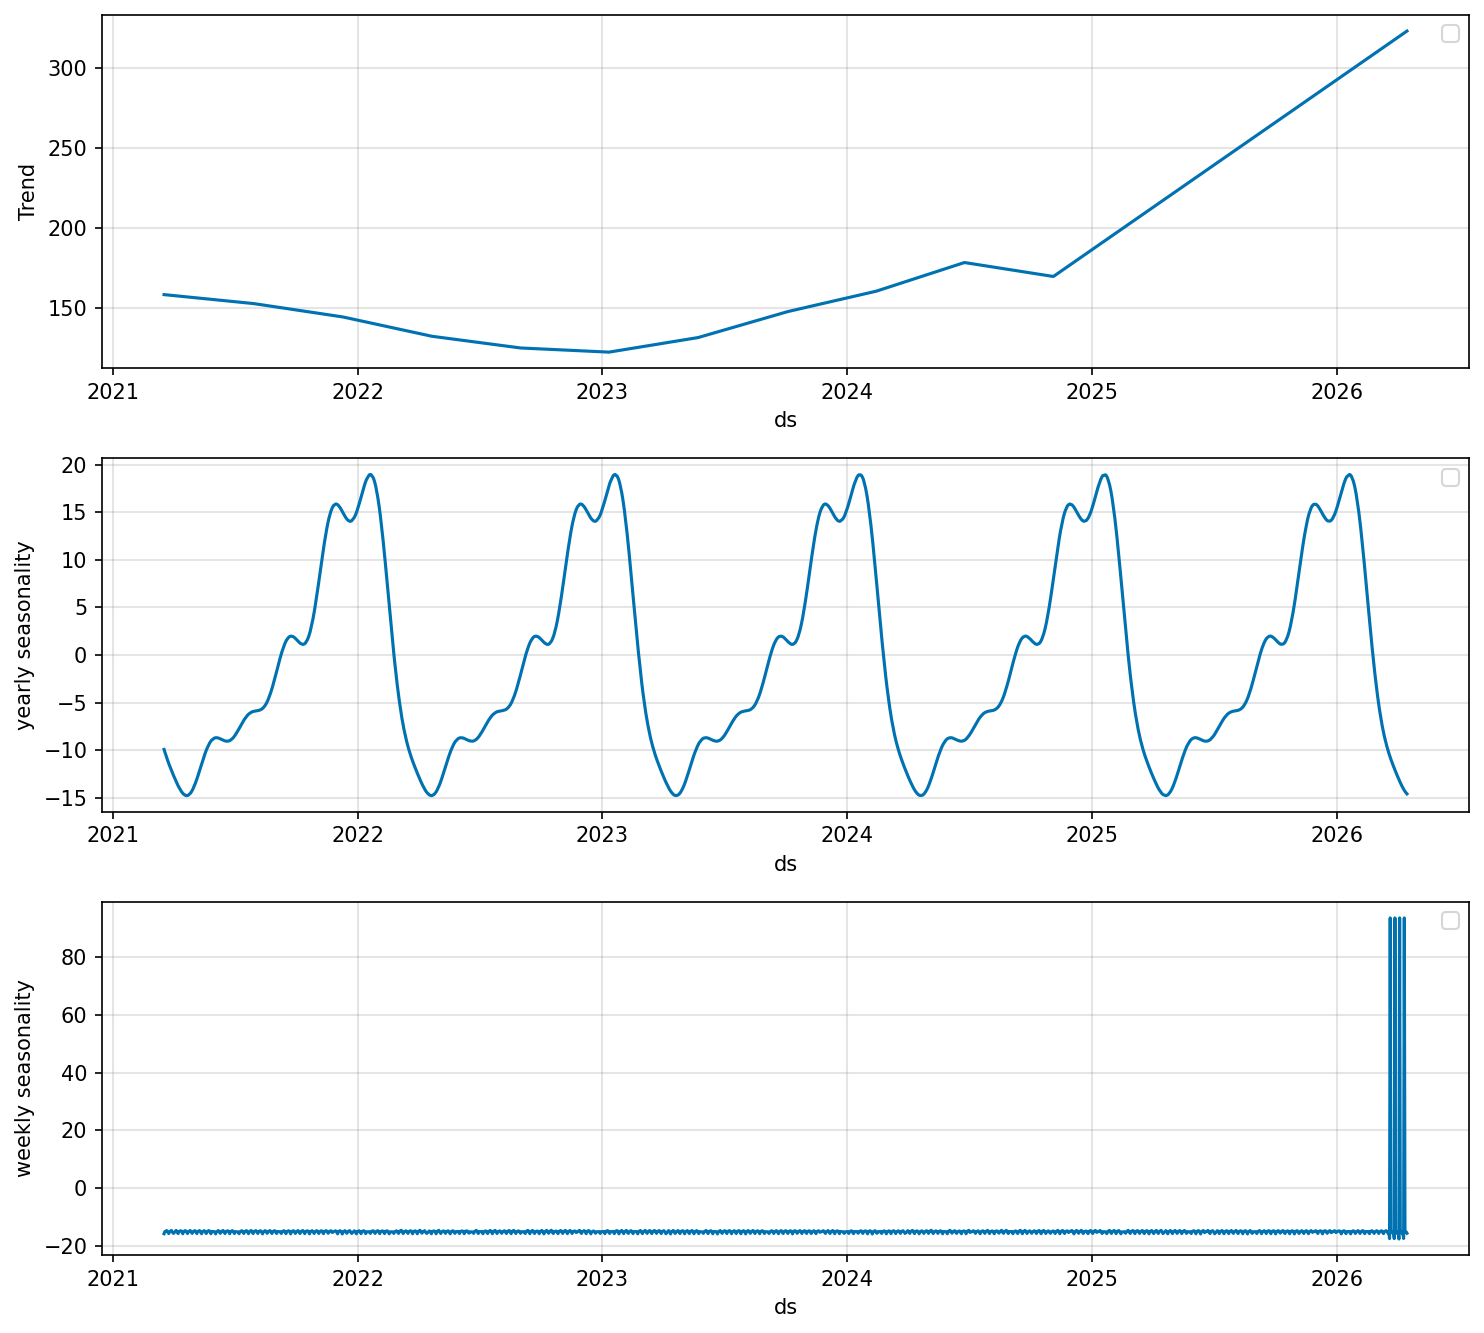
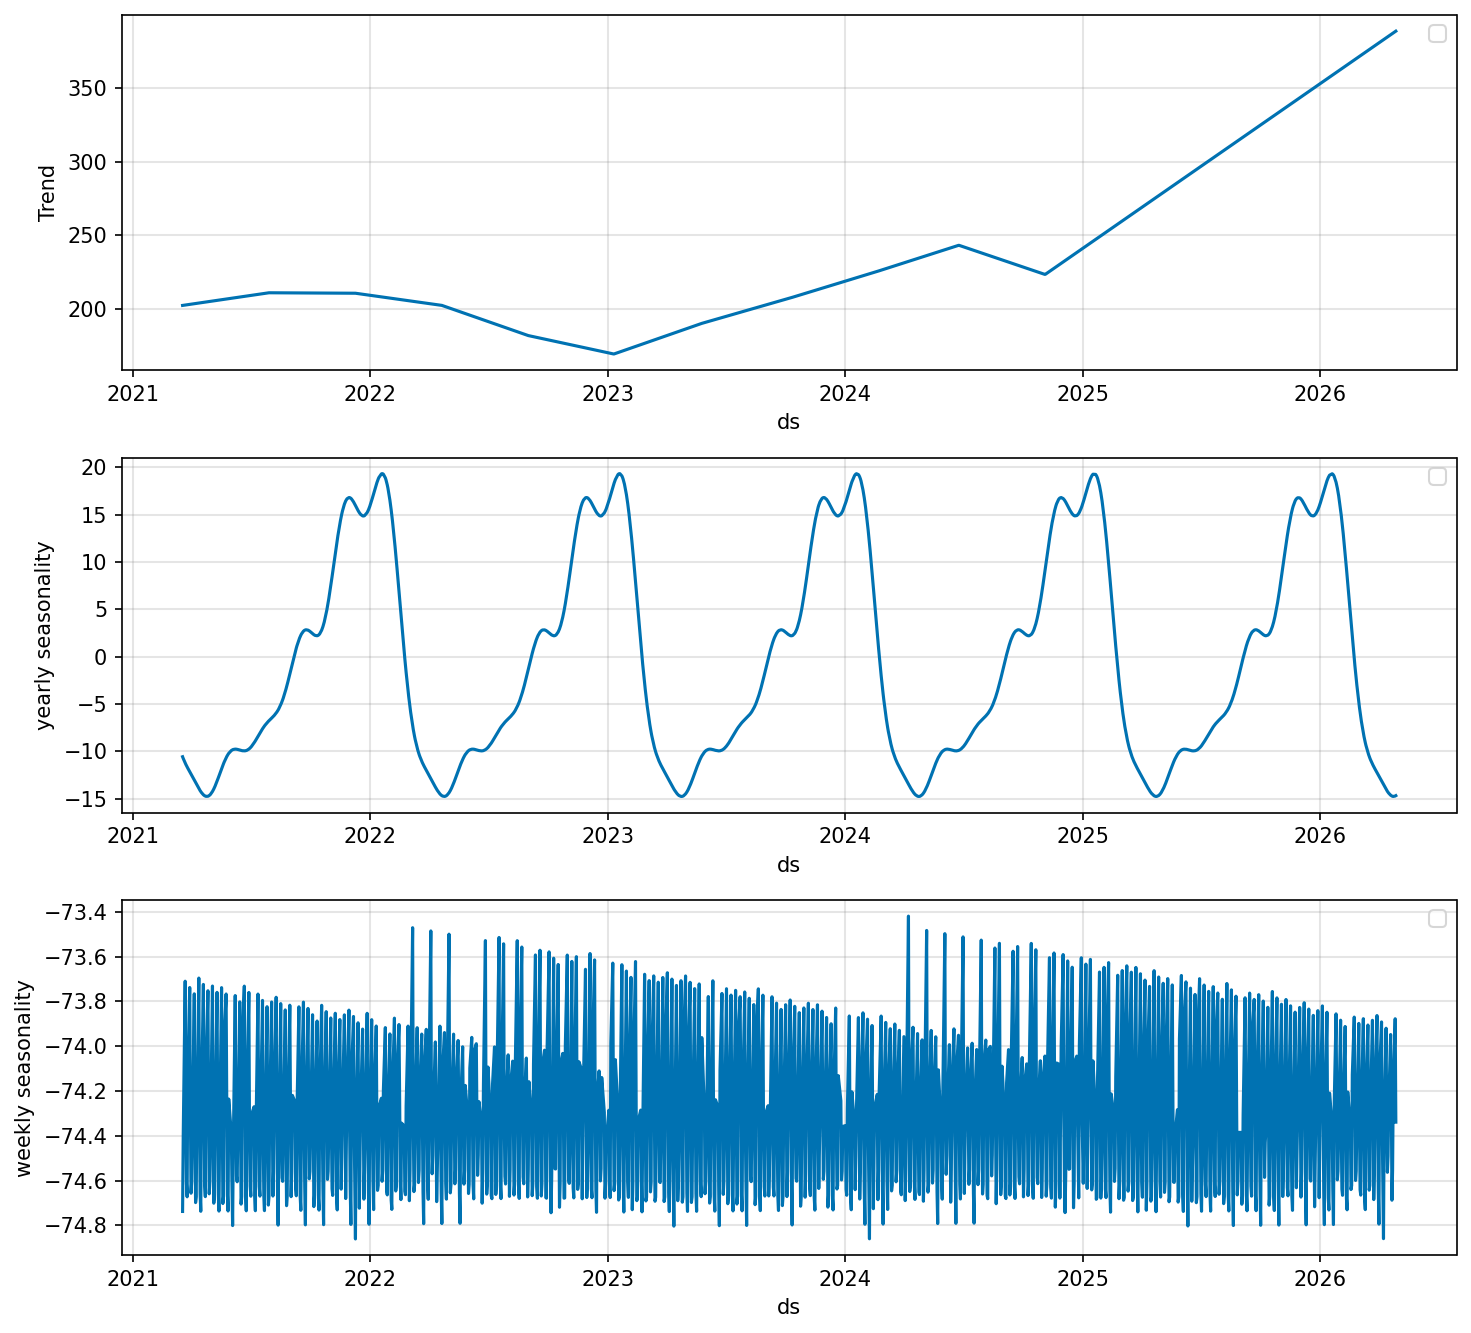
feat: add CSV export functionality for forecast results

diff --git a/src/train_predict.py b/src/train_predict.py
@@ -79,12 +79,20 @@ def main() -> None:
 
     # 訓練
     # NeuralProphet 需要指定資料頻率（此處為日頻率 D）
-    _metrics = model.fit(df, freq="D")
+    _metrics = model.fit(df, freq="B")
 
     # 產生未來 30 天的資料框
     # n_historic_predictions=True：會在 forecast 中包含歷史區間的預測，方便畫圖對照
     future = model.make_future_dataframe(df, periods=30, n_historic_predictions=True)
     forecast = model.predict(future)
+    
+    # ==========================================
+    # 🌟 新增這段：將預測的詳細數據匯出成 CSV 檔
+    # ==========================================
+    csv_export_path = project_root / "data" / "forecast_results.csv"
+    forecast.to_csv(csv_export_path, index=False, encoding="utf-8-sig")
+    print(f"📊 預測原始數據已匯出至：{csv_export_path}")
+    # ==========================================
 
     # 1) 預測圖（Forecast plot）
     model.plot(forecast, plotting_backend="matplotlib")
